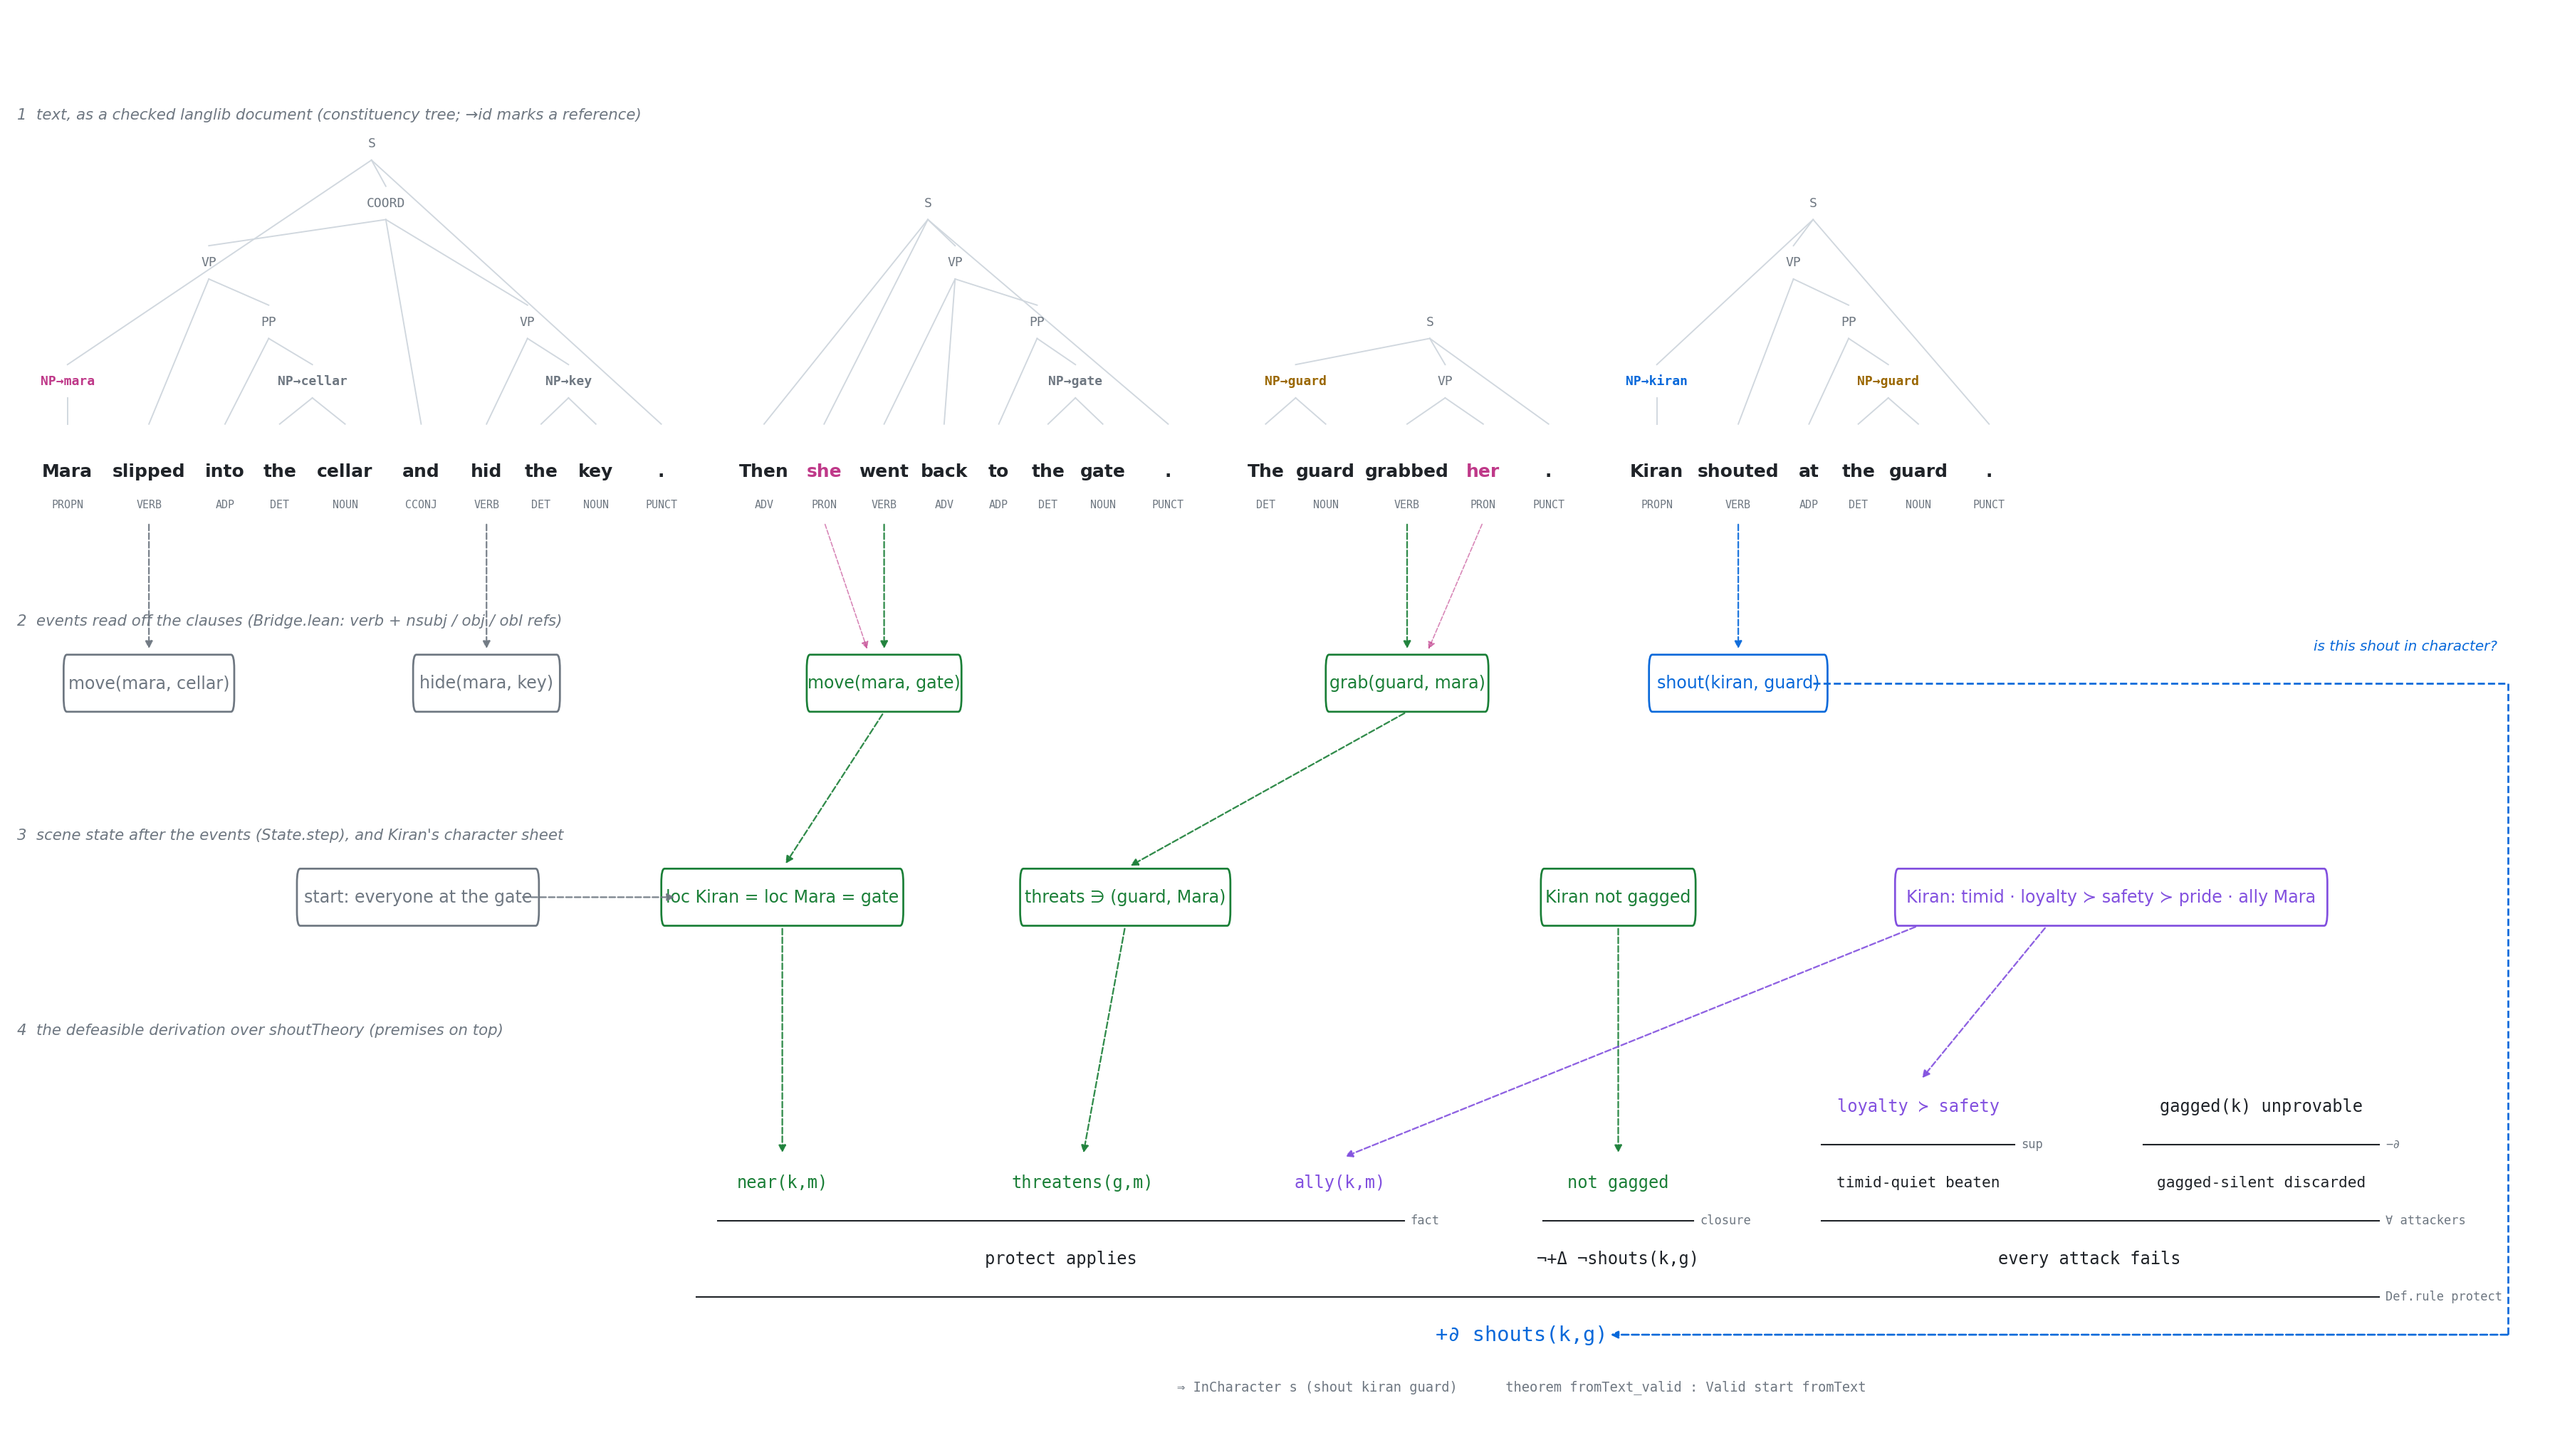
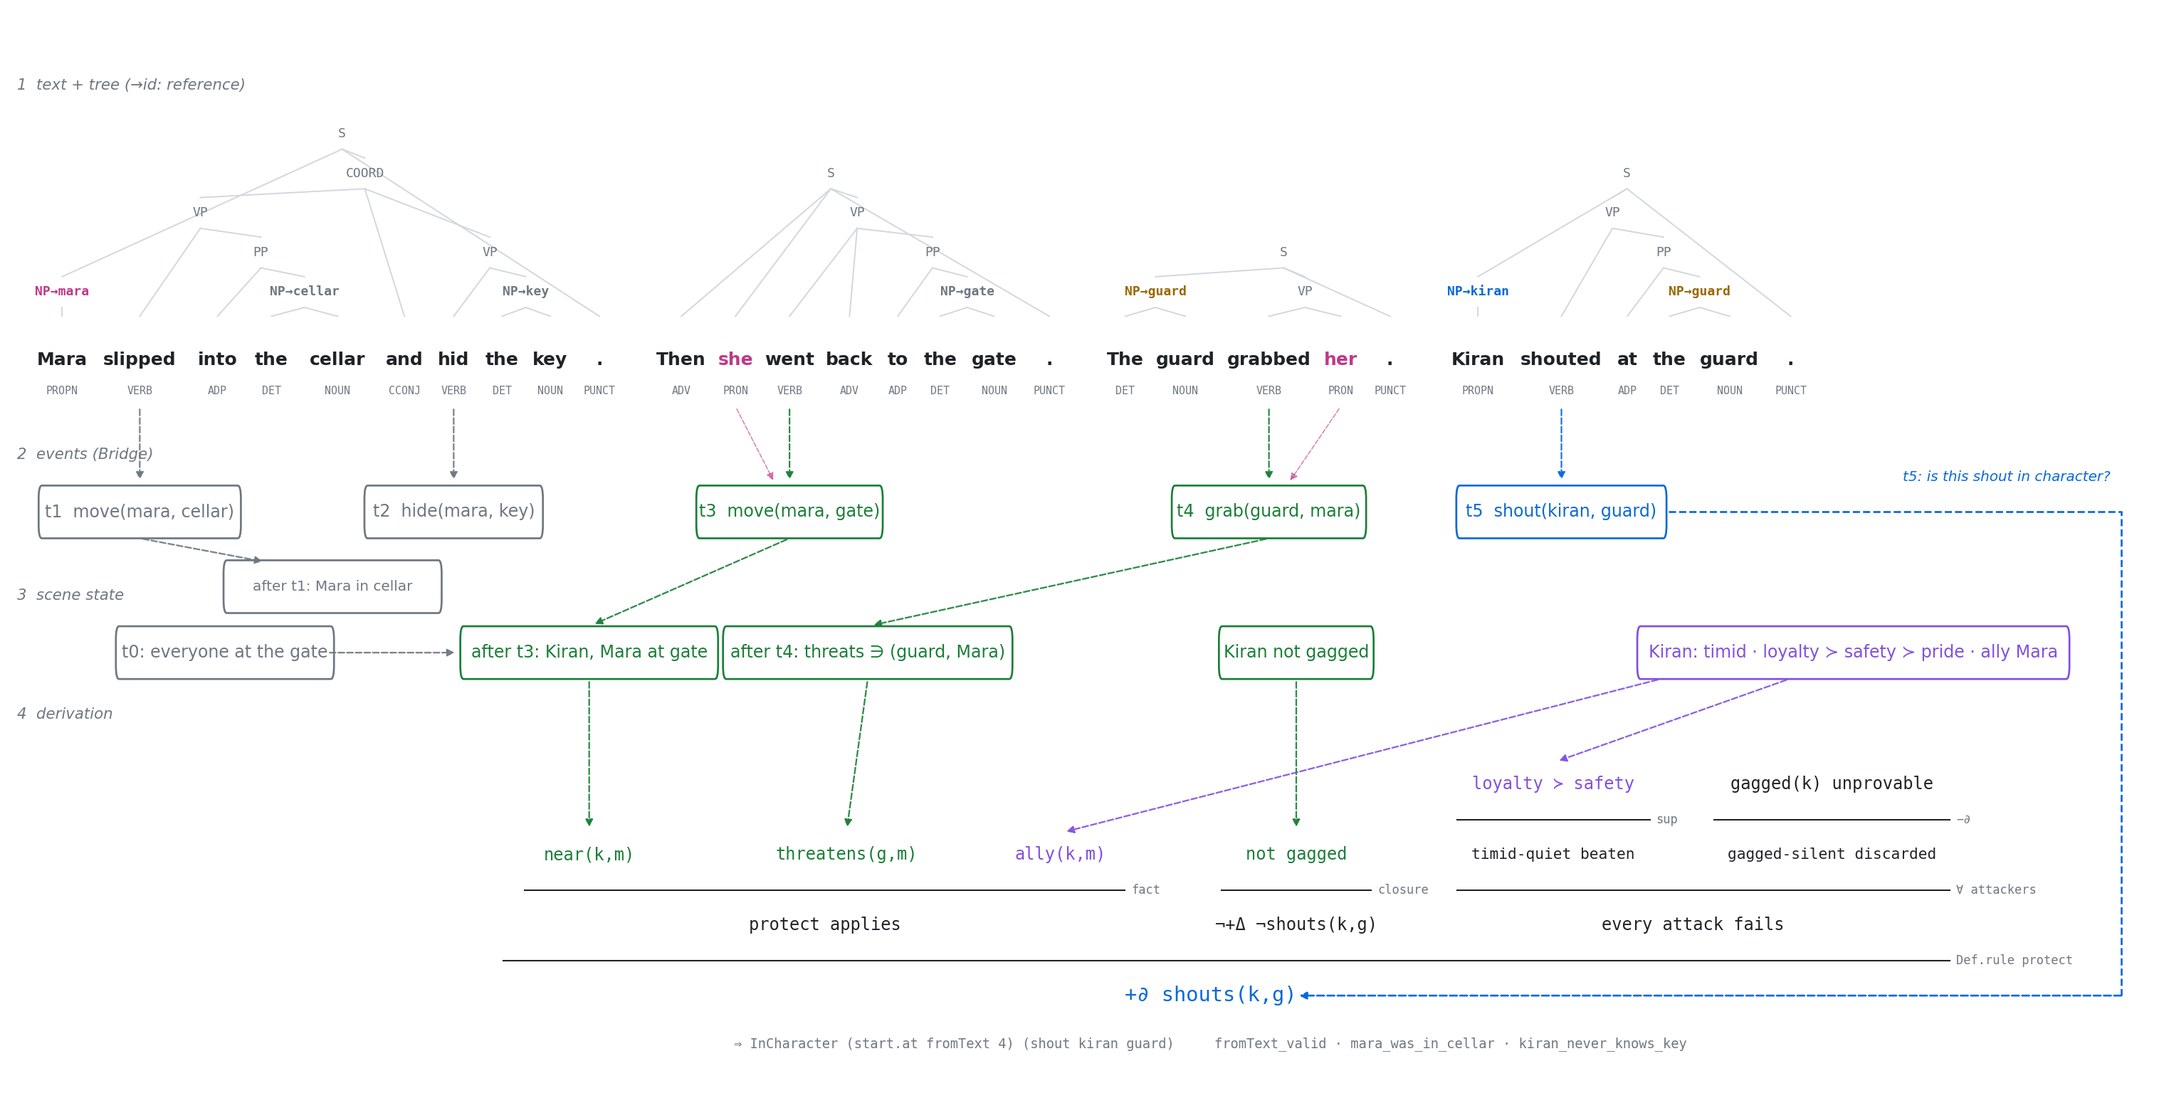
Time: State.run/at, Was, Throughout; theorems mara_was_in_cellar, kiran_never_knows_key; compact bridge figure with timestamps

diff --git a/viz/bridge_full.py b/viz/bridge_full.py
@@ -33,14 +33,14 @@ def lay(t):
     """Return the (x, y) of t's anchor; leaves get the next token slot."""
     global x
     if "w" in t:
-        w = max(len(t["w"]), len(t["p"])) + 1.6
+        w = max(len(t["w"]) * 1.1, len(t["p"]) * 0.7) + 1.2
         cx = x + w / 2
         x += w
         toks.append((cx, t["w"], t["p"], t.get("ref")))
         return (cx, TOK_Y + 1.1)
     kid_xy = [lay(k) for k in t["k"]]
     cx = sum(p[0] for p in kid_xy) / len(kid_xy)
-    cy = TOK_Y + 1.1 + 1.25 * level(t)
+    cy = TOK_Y + 1.1 + 0.9 * level(t)
     label = t["c"] + (f"→{t['ref']}" if t.get("ref") else "")
     nodes.append((cx, cy, label, ENT.get(t.get("ref"), MUTED), kid_xy))
     return (cx, cy)
@@ -48,8 +48,8 @@ def lay(t):
 roots = []
 for s in doc["sentences"]:
     roots.append(lay(s))
-    x += 3.5
-W = max(x + 2, 236)
+    x += 2.5
+W = max(x + 2, 200)
 tree_top = max(n[1] for n in nodes) + 0.8
 
 # token index -> x, and the anchor of the NP that carries each ref
@@ -64,11 +64,11 @@ def find_refs(t, start):
     return i
 
 # ── bands (y grows upward; we stack downward from the tree) ───────────────────
-TREE_BASE = 30.0      # tree band sits at the top
+TREE_BASE = 22.0      # tree band sits at the top
 def T(y): return TREE_BASE + y
-EV_Y = TREE_BASE - 4.0
-ST_Y = EV_Y - 4.5
-DER_TOP = ST_Y - 4.0
+EV_Y = TREE_BASE - 3.0
+ST_Y = EV_Y - 3.2
+DER_TOP = ST_Y - 2.6
 
 fig_h = TREE_BASE + tree_top + 2
 fig = plt.figure(figsize=(W * CW / 72, fig_h * LH / 72))
@@ -99,19 +99,19 @@ for (cx, w, p, ref) in toks:
     ax.text(cx, T(TOK_Y + 0.45), w, ha="center", va="center", family=SANS, fontsize=FS,
             color=ENT.get(ref, INK), fontweight="bold")
     ax.text(cx, T(TOK_Y - 0.25), p, ha="center", va="center", family=MONO, fontsize=FS * 0.6, color=MUTED)
-band_label(T(tree_top) - 0.2, "1  text, as a checked langlib document (constituency tree; →id marks a reference)")
+band_label(T(tree_top) + 0.3, "1  text + tree (→id: reference)")
 
 # events, under their verbs
-band_label(EV_Y + 1.3, "2  events read off the clauses (Bridge.lean: verb + nsubj / obj / obl refs)")
+band_label(EV_Y + 1.3, "2  events (Bridge)")
 ev_xy = {}
-for c in clauses:
+for ti, c in enumerate(clauses, 1):
     vx = tok_x[c["at"]]
     ev = c["event"].replace("LangLib.Scene.Event.", "").replace("LangLib.Scene.Gate.", "")
     for k in ("Ch.", "Pl.", "Ob.", "(", ")"): ev = ev.replace(k, "")
     name, *args = ev.split()
     pretty = f"{name}({', '.join(args)})"
     colour = GOAL_C if name == "shout" else (TEXT_C if name in ("grab", "move") and "gate" in args or name == "grab" else MUTED)
-    ev_xy[pretty] = box(vx, EV_Y, pretty, colour)
+    ev_xy[pretty] = box(vx, EV_Y, f"t{ti}  {pretty}", colour)
     dashed((vx, T(TOK_Y - 0.6)), (vx, EV_Y + 0.6), colour)
     # argument words: subject / object / obl referents, nearest token with that ref in the sentence
     for ent in [c["subj"], c["obj"]] + [e for _, e in c["obls"]]:
@@ -122,22 +122,24 @@ for c in clauses:
                 dashed((toks[i][0], T(TOK_Y - 0.6)), (vx + (toks[i][0] - vx) * 0.25, EV_Y + 0.6), ENT[ent], lw=0.8, alpha=0.6)
 
 # fixed columns for the lower bands: premise x positions
-XN, XT, XA, XG, XL, XU = 72, 100, 124, 150, 178, 210
+XN, XT, XA, XG, XL, XU = 54, 78, 98, 120, 144, 170
 mg, gr, sh = ev_xy["move(mara, gate)"], ev_xy["grab(guard, mara)"], ev_xy["shout(kiran, guard)"]
 
 # scene facts and character sheet
-band_label(ST_Y + 1.3, "3  scene state after the events (State.step), and Kiran's character sheet")
-start = box(38, ST_Y, "start: everyone at the gate", MUTED)
-st_near = box(XN, ST_Y, "loc Kiran = loc Mara = gate", TEXT_C)
-st_thr = box(XT + 4, ST_Y, "threats ∋ (guard, Mara)", TEXT_C)
+band_label(ST_Y + 1.3, "3  scene state")
+start = box(20, ST_Y, "t0: everyone at the gate", MUTED)
+cel = box(tok_x[clauses[0]["at"]] + 18, ST_Y + 1.5, "after t1: Mara in cellar", MUTED, fs=FS * 0.8)
+dashed((tok_x[clauses[0]["at"]], EV_Y - 0.6), (cel[0] - 6, ST_Y + 2.05), MUTED)
+st_near = box(XN, ST_Y, "after t3: Kiran, Mara at gate", TEXT_C)
+st_thr = box(XT + 2, ST_Y, "after t4: threats ∋ (guard, Mara)", TEXT_C)
 st_gag = box(XG, ST_Y, "Kiran not gagged", TEXT_C)
-sheet = box(196, ST_Y, "Kiran: timid · loyalty ≻ safety ≻ pride · ally Mara", SHEET_C)
+sheet = box(172, ST_Y, "Kiran: timid · loyalty ≻ safety ≻ pride · ally Mara", SHEET_C)
 dashed((mg[0], EV_Y - 0.6), (st_near[0], ST_Y + 0.6), TEXT_C)
-dashed((start[0] + 9.5, ST_Y), (st_near[0] - 9.5, ST_Y), MUTED)
+dashed((start[0] + 9.5, ST_Y), (st_near[0] - 12, ST_Y), MUTED)
 dashed((gr[0], EV_Y - 0.6), (st_thr[0], ST_Y + 0.6), TEXT_C)
 
 # derivation (premises on top, conclusion at the bottom)
-band_label(DER_TOP + 1.2, "4  the defeasible derivation over shoutTheory (premises on top)")
+band_label(DER_TOP + 1.2, "4  derivation")
 y0 = DER_TOP - 0.4           # leaves of the attack branch
 y1 = y0 - 1.6                # A/B premises, attack sub-conclusions
 y2 = y1 - 1.6                # premises of the final rule
@@ -164,7 +166,7 @@ C = (XL + XU) / 2; t(C, y2, "every attack fails")
 rule(XN - 8, XU + 11, y2 - 0.8, "Def.rule protect")
 goal = ((XN + XU) / 2, y3)
 t(goal[0], goal[1], "+∂ shouts(k,g)", GOAL_C, fs=FS * 1.15)
-t(goal[0], y3 - 1.1, "⇒ InCharacter s (shout kiran guard)      theorem fromText_valid : Valid start fromText",
+t(goal[0], y3 - 1.1, "⇒ InCharacter (start.at fromText 4) (shout kiran guard)     fromText_valid · mara_was_in_cellar · kiran_never_knows_key",
   MUTED, fs=FS * 0.75)
 
 # state → premises
@@ -175,10 +177,10 @@ dashed((sheet[0] - 18, ST_Y - 0.6), (XA, y1 + 0.5), SHEET_C)
 dashed((sheet[0] - 6, ST_Y - 0.6), (XL, y0 + 0.5), SHEET_C)
 # the shout event is the question the derivation answers: route down the right margin
 xr = W - 3
-ax.plot([sh[0] + 7, xr, xr], [EV_Y, EV_Y, y3], ls="--", color=GOAL_C, lw=1.3)
+ax.plot([sh[0] + 10, xr, xr], [EV_Y, EV_Y, y3], ls="--", color=GOAL_C, lw=1.3)
 ax.annotate("", xy=(goal[0] + 8, y3), xytext=(xr, y3),
             arrowprops=dict(arrowstyle="-|>", ls="--", color=GOAL_C, lw=1.3, shrinkA=0, shrinkB=2))
-ax.text(xr - 1, EV_Y + 0.7, "is this shout in character?", family=SANS, fontsize=FS * 0.8,
+ax.text(xr - 1, EV_Y + 0.7, "t5: is this shout in character?", family=SANS, fontsize=FS * 0.8,
         color=GOAL_C, style="italic", ha="right")
 
 ax.set_ylim(y3 - 2.2, fig_h)
